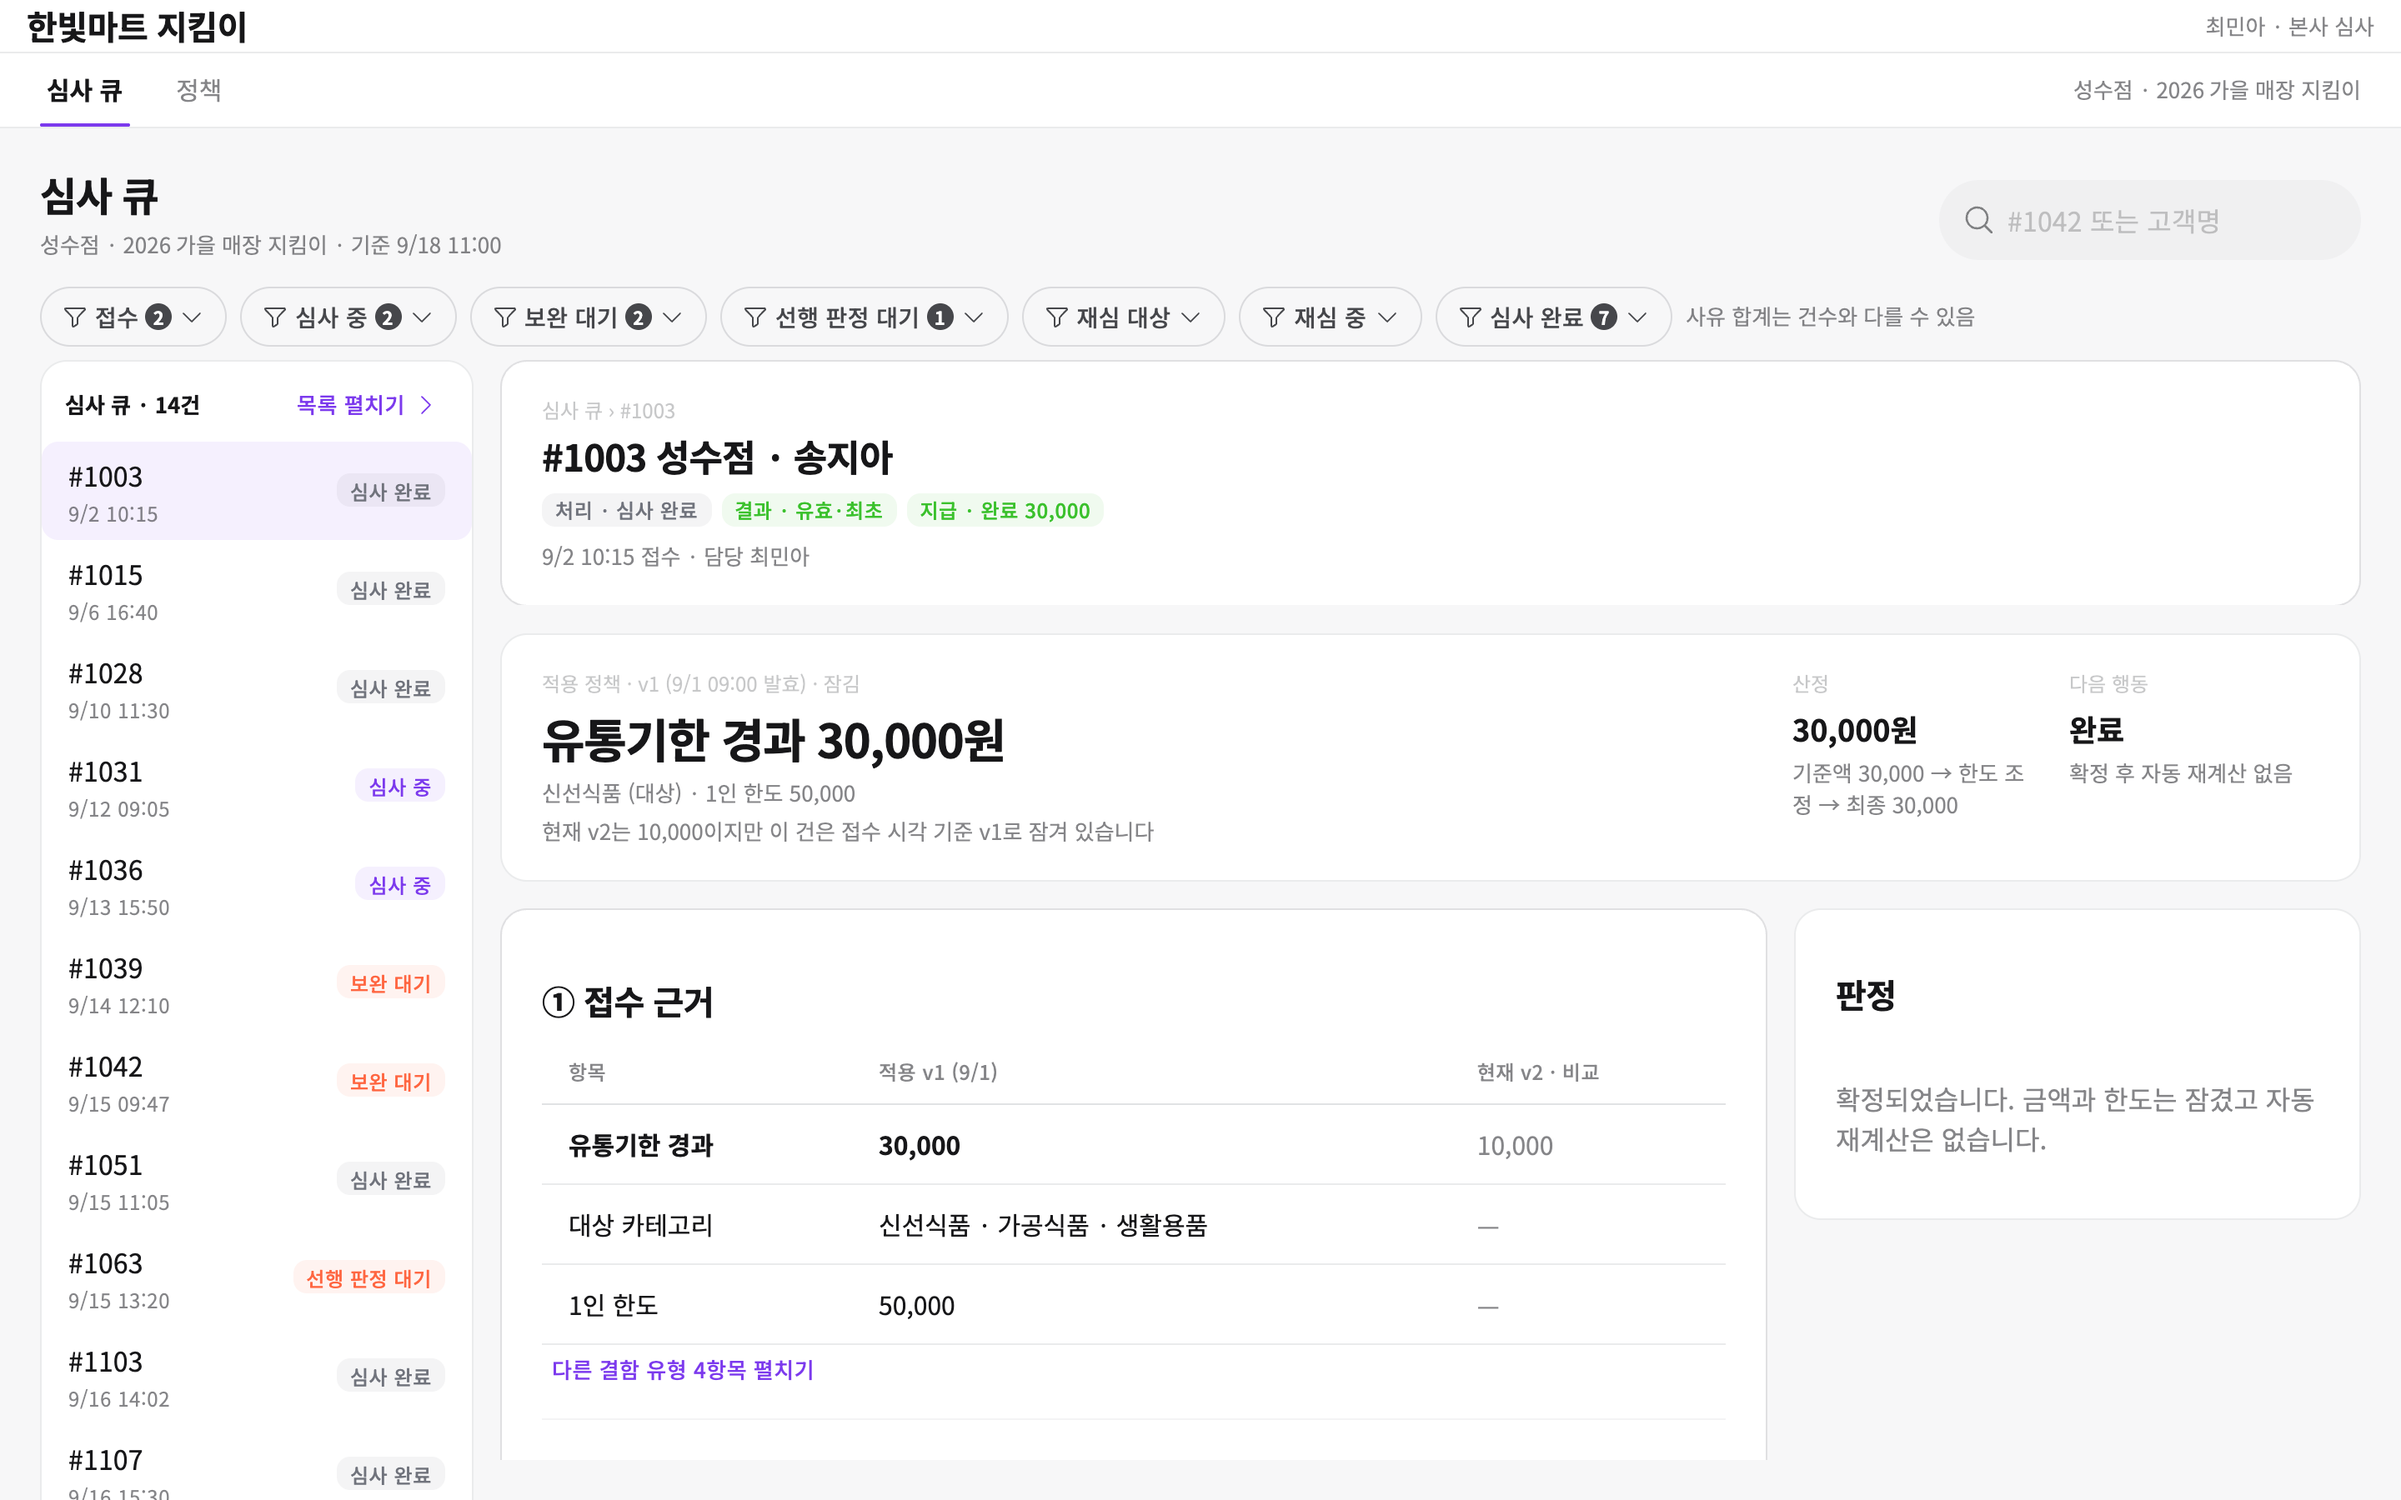
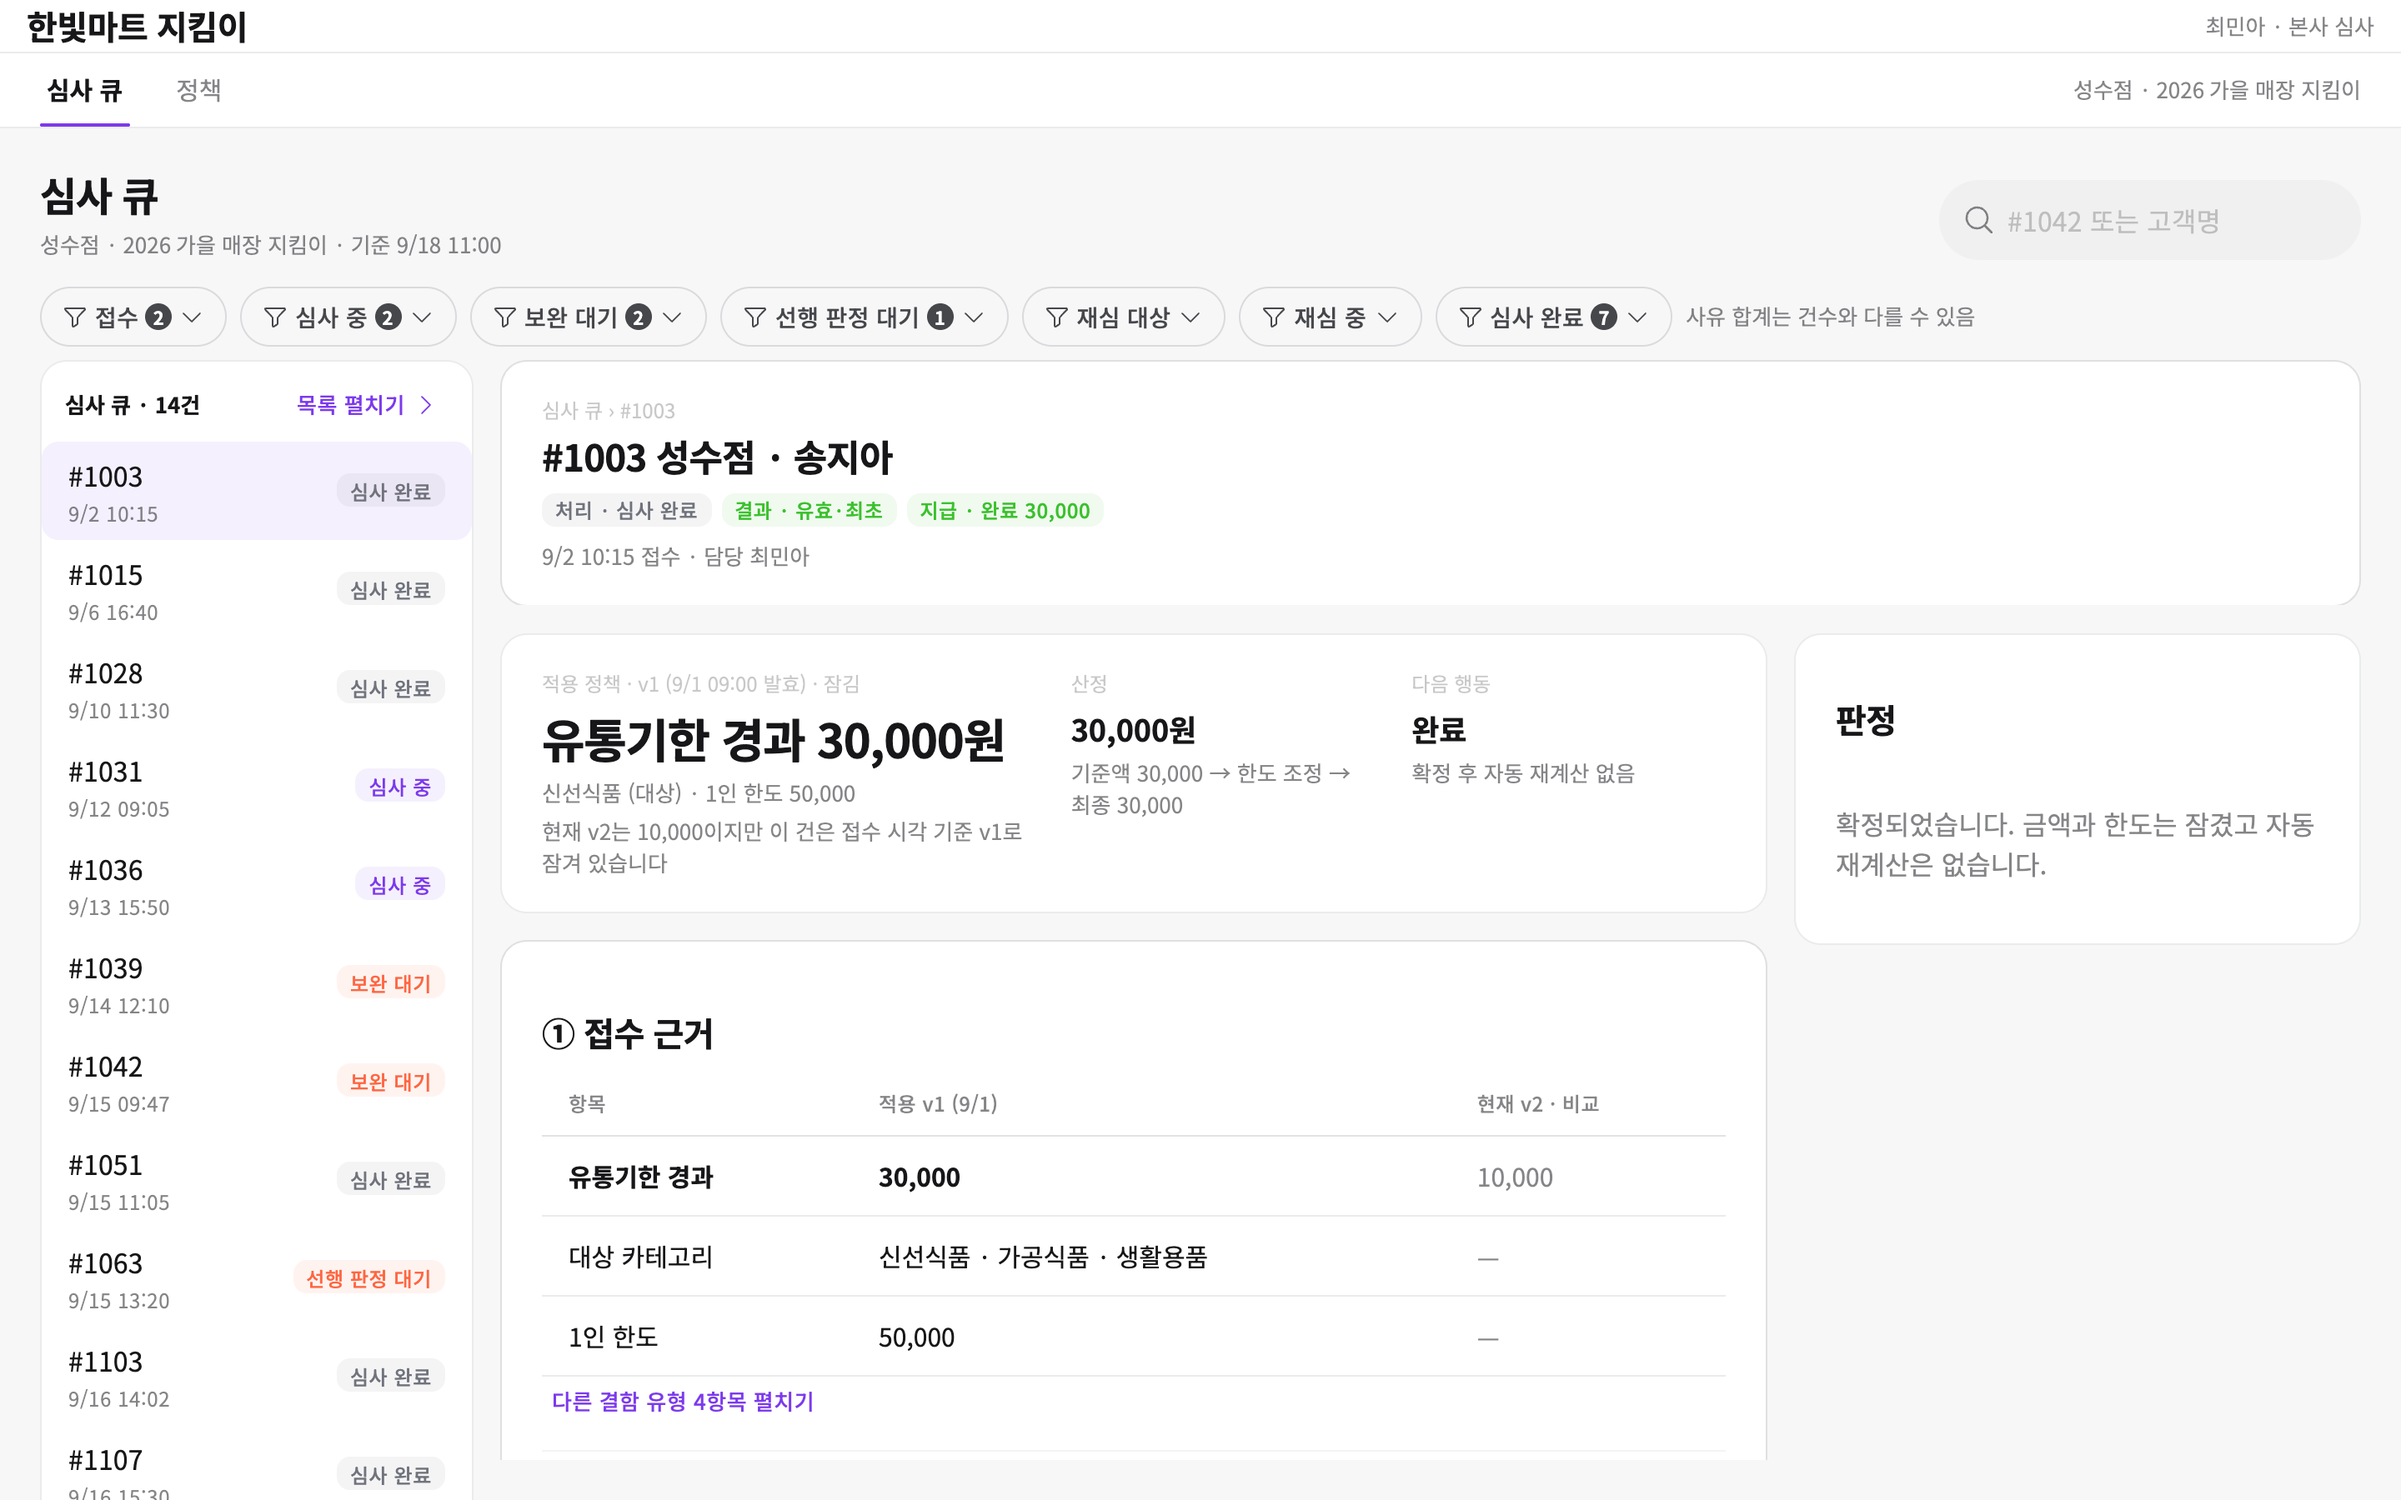
fix(app): 적용 정책을 본문과 같은 폭으로, 판정은 그 오른쪽 위로
앞 커밋에서 반대로 잡았다. 산정·다음 행동을 판정 열 폭에 맞췄는데,
요청은 적용 정책 박스를 본문(접수 근거) 박스와 같은 폭으로 두고
판정을 그 오른쪽 위에 붙이는 것이었다.

- 적용 정책을 본문과 같은 열(.detail-col) 안으로 옮겼다.
  둘 다 760, 판정은 오른쪽 340
- 요약 세 칸은 1.6fr 1fr 1fr — 좁아진 폭 안에서 적용 정책에 자리를 더 준다

한국어 줄바꿈 사각지대도 막았다.
- .shell에 word-break: keep-all. 아이리스 타이포 클래스는 keep-all을
  갖지만 이 파일의 자체 클래스(.sub .overline .amount)에는 없어
  칸이 좁아지자 최종이 최/종으로 끊겼다
- 줄바꿈 검사가 #/app(빈 상태)만 보고 있었다. 상세 네 상태와 정책·영향
  확인을 추가해 열한 경로를 본다

검증: 적용 정책 폭 == 본문 폭(760) 실측, 스크롤 0/200/420에서 상단
정보 고정·판정 386 고정, 다섯 상태 넘침 0·겹침 0, 어절 절단 0,
모서리에 붙은 면 0, 대비 AA 미달 0, 콘솔 에러 0, 테스트 13개 통과.
갤러리 아홉 장 재촬영(646KB).

diff --git a/app/src/app.css b/app/src/app.css
@@ -121,6 +121,9 @@ main { padding: var(--iris-space-24); }
 /* Iris Table의 td·th만 타이포 클래스를 쓰지 않아 keep-all이 빠져 있다
    (.iris-label-2 등은 전부 keep-all). 시스템이 의도한 상태로 맞춘다 —
    1280에서 "송지|아" "유통기한 경|과"처럼 이름이 잘리던 것. */
+/* 한국어는 기본값이 음절 단위로 끊긴다. 아이리스 타이포 클래스는 keep-all을
+   갖지만 이 파일의 자체 클래스(.sub .overline .amount …)에는 없다 — 셸 전체에 건다. */
+.shell { word-break: keep-all; overflow-wrap: break-word; }
 .shell [class*="iris-td-"], .shell [class*="iris-th-"] { word-break: keep-all; }
 
 /* 목록 안에서도 열 머리는 붙어 있는다 */
@@ -159,11 +162,11 @@ main { padding: var(--iris-space-24); }
   background: var(--iris-semantic-background-normal-alternative);
 }
 /* ── 적용 정책 ──────────────────────────────────────────────
-   산정·다음 행동을 좁혀서 아래 판정 열과 폭을 맞춘다. 두 칸이 150 + 틈 16이면
-   본문이 1fr인 한 화면 폭과 무관하게 판정 열의 왼쪽 모서리와 정확히 떨어진다. */
-.summary { margin-top: var(--iris-space-16); }
+   본문(접수 근거) 박스와 같은 열에 두어 폭을 맞춘다. 판정은 그 오른쪽 위. */
+.detail-col { display: grid; gap: var(--iris-space-16); min-width: 0; align-content: start; }
+.summary { margin-top: 0; }
 .summary > [class*="iris-body-"] {
-  grid-template-columns: minmax(0, 1fr) 150px 150px;
+  grid-template-columns: 1.6fr 1fr 1fr;
   column-gap: var(--iris-space-16);
   padding: var(--iris-space-20) var(--iris-space-24);
 }

diff --git a/app/src/ui/Detail.tsx b/app/src/ui/Detail.tsx
@@ -54,6 +54,8 @@ export function Detail({ r, onConfirm, onSupplement }: {
         </SectionMessage>
       )}
 
+      <div className="detail-body">
+      <div className="detail-col">
       <Card variant="outlined" className="summary">
         <div>
           <div className="overline">적용 정책 · {applied.version} ({fmt(applied.effectiveFrom)} 발효) · 잠김</div>
@@ -77,7 +79,6 @@ export function Detail({ r, onConfirm, onSupplement }: {
         </div>
       </Card>
 
-      <div className="detail-body">
         <div className="detail-main">
       <Rail label="① 접수 근거">
         <Table
@@ -160,6 +161,7 @@ ${noticePayout(r, done)}
       </Rail>
 
         </div>
+      </div>
       <div className="panel-col">
       <Card variant="outlined" className="panel">
         <SectionHeader title="판정" />
